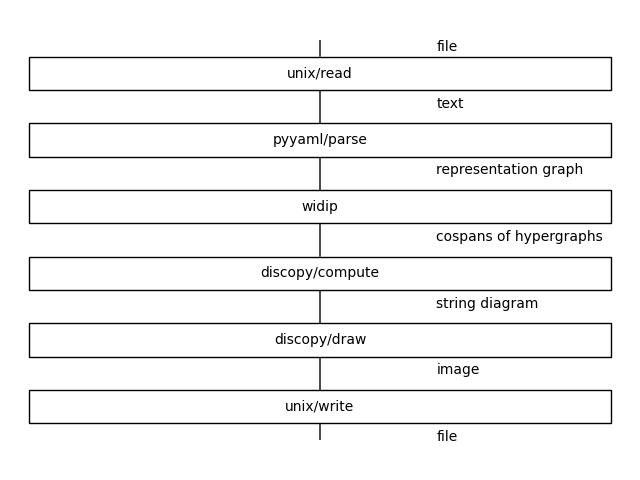
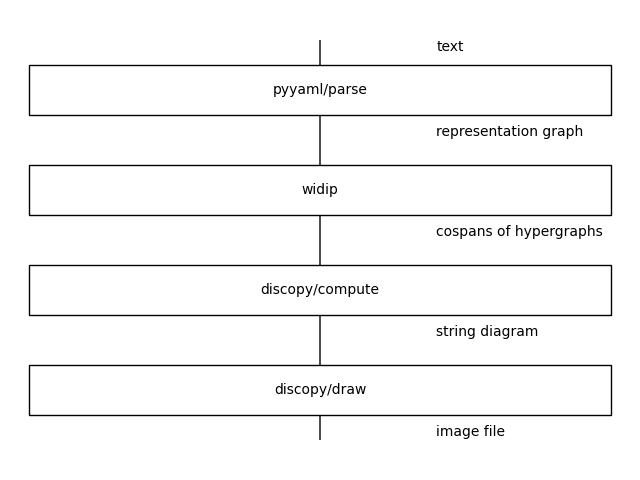
remove UNIX mentions and remark DisCoPy

Changed region(s): [[0.0312, 0.0625, 0.9688, 0.5], [0.0312, 0.5312, 0.9688, 0.9375]]

diff --git a/Widip/Widip.md b/Widip/Widip.md
@@ -13,26 +13,26 @@ In String Diagram Rewrite Theory [[BGK+]] we see _symbolic computation_ from a n
 
 The LISP Programming System [[McC]] modelled a similar framework for the AI group at MIT. An important decision was to define programs in the same class of symbolic expressions, as that "has advantages both as a programming language and as vehicles for developing a theory of computation".
 
-It is straightforward to rethink the LISP graphically but users expect new tools to integrate with their environments including workstations and servers. This factor leads us to working with The UNIX Time-Sharing System [[RT]]. We will evaluate this solution with the Design Principles Behind Smalltalk [[Ing]] research on programming languages and user interfaces.
-
 ## Implementation
-We write the `widip` program, an interactive UNIX Shell. It is implemented in Python using the `discopy` and `pyyaml` packages. We use the YAML data language to model string diagrams and use the DisCoPy toolkit for computing [[FTC]] and drawing image files. The following is the system diagram where the box named "widip" is our implementation:
+We implement the `widip` program with the `discopy` toolkit presented in DisCoPy: Monoidal Categories in Python [[FTC]]. In [[BGK+]] the authors present diagrams together with TeX equations and in [[FTC]] there is an imperative Python API. It is not clear how a system built around TeX or Python files can support a LISP-based approach. Two-dimensional diagrams present a challenge for the syntax design.
 
-![The system diagram](rep.jpg){width="80%"}
+We chose the YAML data language [[YAML]] to model such structures for several practical reasons but we will focus on the aspects that make it applicable to modelling diagrams. YAML is a popular data language that makes it possible to write friendly yet complex data structures made of recursive sequences, mappings and scalars. Documents are modelled as a Presentation Stream and an equivalent combinatorial structure called Representation Graph.
 
-The diagram above is the system as represented by the system. It is stored in a file with the following text:
+There is a straightforward transformation from the representation graph of a YAML document to Cospans of Hypergraphs. in Python using `discopy` for computing and drawing image files. In the following diagram the box named "widip" is our implementation:
+
+![The `widip` Python implementation diagram](rep.jpg){width="80%"}
+
+We find it remarkable that the equivalent Presentation Stream, namely the YAML document below, closely resembles the string diagram two-dimensional image. We believe this is evidence of the deep roots of the Equivalence along with the long-lasting contributions of LISP.
 
 ```yaml
-- !unix/read file: text
 - !pyyaml/parse text: representation graph
 - !widip representation graph: cospans of hypergraphs
 - !discopy/compute cospans of hypergraphs: string diagram
-- !discopy/draw string diagram: image
-- !unix/write image: file
+- !discopy/draw string diagram: image file
 ```
 
 ## Future work
-We would like to implement the Run language from Programs as Diagrams [[Pav]] as part of the Widip computing system. We are also interested in evaluating the Catlab package discussed in [[PSV]] for compiling to native code.
+We would like to implement the Run language from Programs as Diagrams [[Pav]] as part of the Widip computing system. We are also interested in the Catlab package discussed in [[PSV]] for compiling to native code.
 
 ## References
 * [[FTC]] Giovanni de Felice, Alexis Toumi, Bob Coecke. DisCoPy: Monoidal Categories in Python. EPTCS 333, 2021, pp. 183-197.
